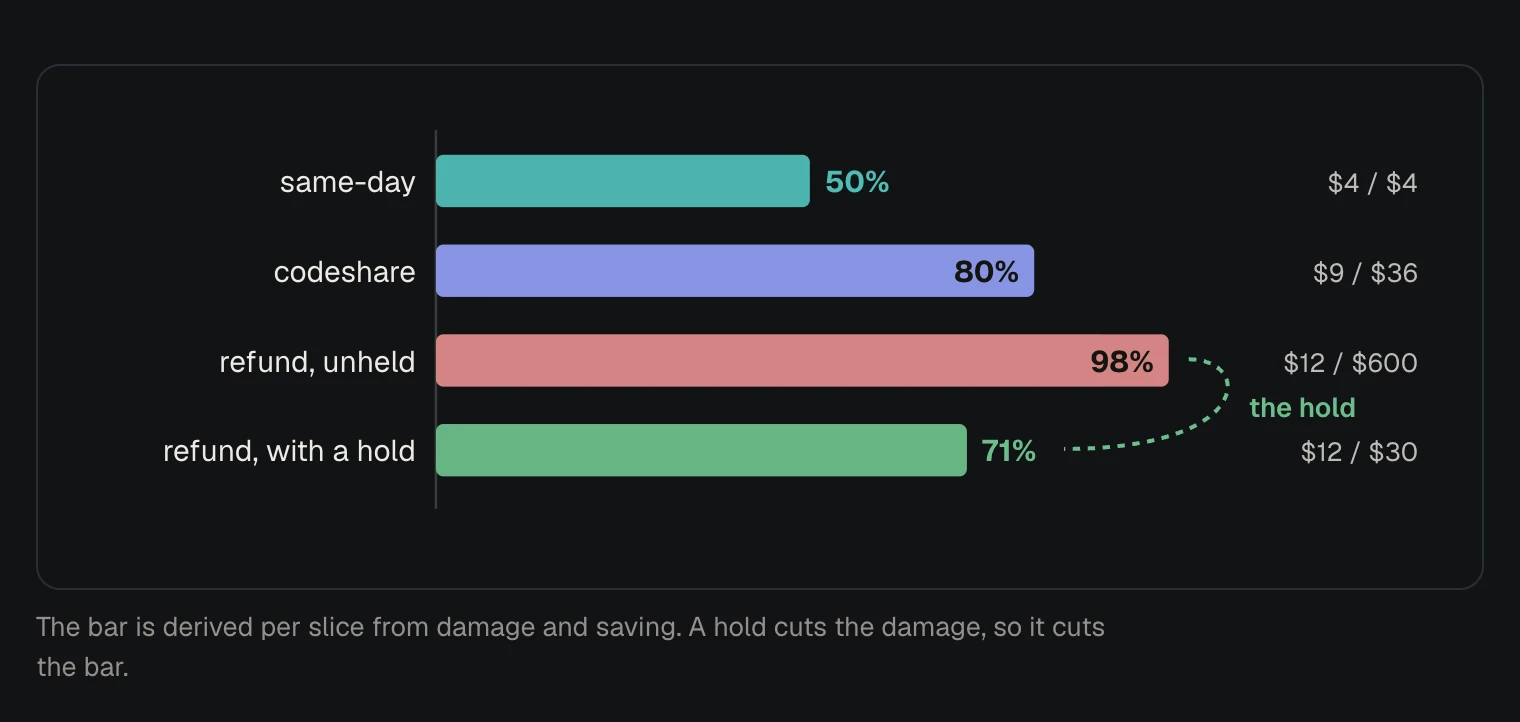
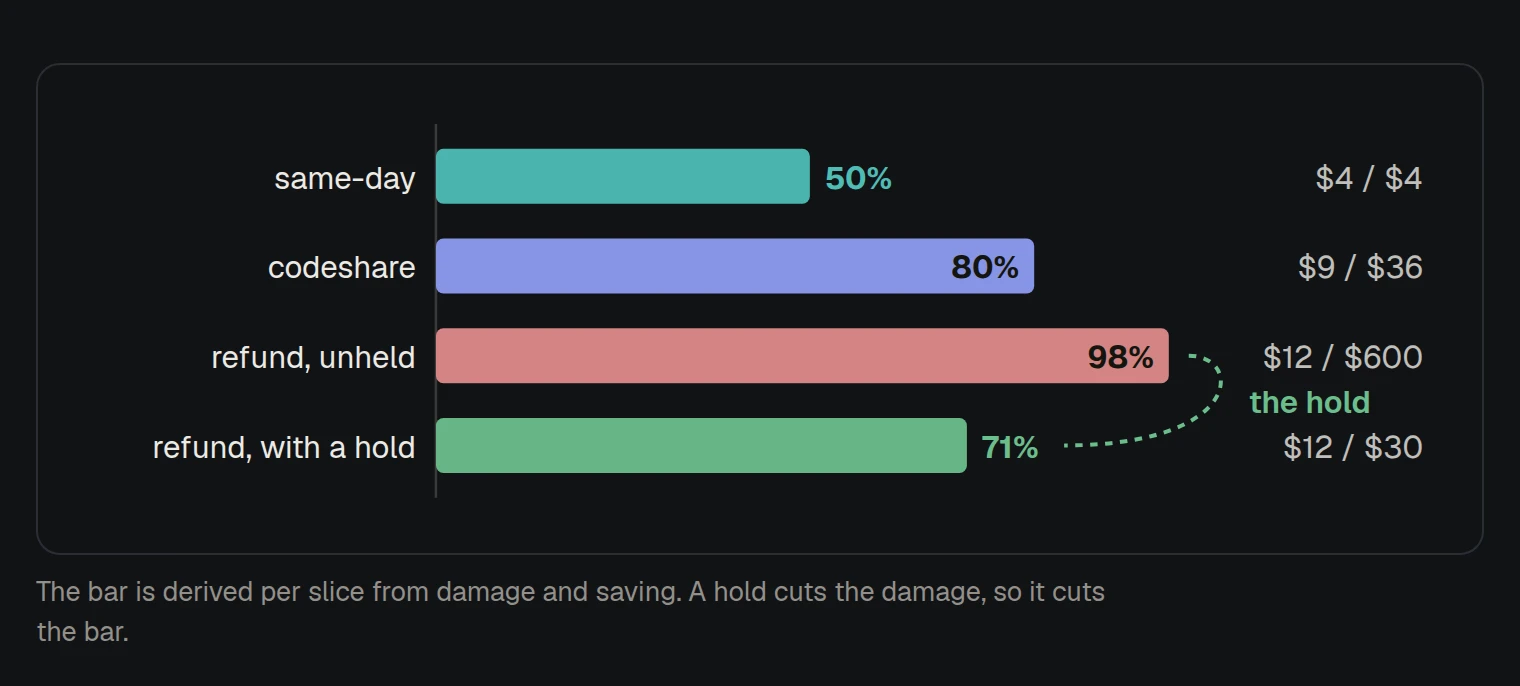
Figure labels in a hue read at 4.5 to 1 in the light theme
Eight pairs of hue-coloured label and tint fell short in the light theme,
between 3.5 and 4.5 to 1: sky, amber and green on their own tints and on
bone, soft on its tint, teal on bone. One token sets how much of its hue a
label keeps, 78% in light and all of it in dark, and the figures mix the
rest from the ink; every pair now reads at 4.9 or more, the dark theme is
unchanged, and the tints did not move. Measured over every label of every
figure and map at two widths in both themes.

Seven figures and the workbench lesson's map, whose title now says the
workbench, are shot again for the wiki in both themes.

Claude-Session: https://claude.ai/code/session_01NALejySY8WrX289xXqTTSm

diff --git a/site/theme/base.css b/site/theme/base.css
@@ -504,12 +504,15 @@ tbody tr:hover{background:color-mix(in oklab,var(--accent) 4%,transparent)}
   --dg-fill:9%;            /* container tint */
   --dg-soft:16%;           /* nested / lane tint */
   --dg-line:38%;           /* hairline of the concept hue */
+  --dg-text:78%;           /* a label drawn in a hue keeps this much of it, the rest is ink: the light
+                              hues read 3.4 to 4.5 to 1 on their own tint, and 4.6 or more at 78% */
 }
 /* The lifted values for the dark page. */
 @media screen{:root:not([data-theme="light"]){
   --dg-slate:#8FA8BE; --dg-indigo:#8E9BF0; --dg-teal:#4FBDB6; --dg-amber:#D9A94A;
   --dg-green:#6BBE8B; --dg-violet:#AE93E0; --dg-rose:#DE8A8A; --dg-sky:#6FB9D9;
   --dg-on:#14140F; --dg-fill:13%; --dg-soft:20%; --dg-line:44%;
+  --dg-text:100%;          /* the lifted hues already read 4.6 or more on their tints */
 }}
 
 /* ---- the board frame ---------------------------------------------------- */

diff --git a/site/pages/figures.py b/site/pages/figures.py
@@ -10,6 +10,10 @@ canvas, re-set upright, for anything narrower. No label is under 12.5 units on t
 the second, so none is under 11px on screen at any width. base.css swaps the two on the figure's own
 width. The sentences that used to be drawn inside the picture are text under it (``notes``): text
 wraps, a drawing cannot.
+
+A label drawn in a hue sits on that hue's own tint, where the light theme's hue alone reads 3.4 to
+4.5 to 1. ``_label`` deepens it toward the ink by ``--dg-text`` (base.css: 78% of the hue in the light
+theme, all of it in the dark), so every label reads 4.5 to 1 or more and the tints stay as they are.
 """
 from __future__ import annotations
 
@@ -34,13 +38,21 @@ def _svg(wide: tuple[int, str], narrow: tuple[int, str], label: str, caption: st
             f"{ns}<figcaption>{E(caption)}</figcaption></figure>")
 
 
+def _label(fill: str) -> str:
+    """The colour a label is drawn in. A hue keeps ``--dg-text`` of itself and takes the rest from the
+    ink; the ink, the ink that sits on a solid hue and a colour already deepened with ink stay as given."""
+    if fill in ("currentColor", "var(--dg-on)") or "var(--ink)" in fill:
+        return fill
+    return f"color-mix(in oklab,{fill} var(--dg-text),var(--ink))"
+
+
 def _t(x: float, y: float, s: str, fs: float = F, *, a: str = "start", w: int = 0, fill: str = "currentColor",
        op: float = 0, mono: bool = False) -> str:
     return (f'<text x="{x:.0f}" y="{y:.0f}" font-size="{fs}"'
             + (f' text-anchor="{a}"' if a != "start" else "")
             + (f' font-weight="{w}"' if w else "")
             + (' font-family="ui-monospace,SFMono-Regular,Menlo,monospace"' if mono else "")
-            + f' fill="{fill}"' + (f' opacity="{op}"' if op else "") + f">{E(s)}</text>")
+            + f' fill="{_label(fill)}"' + (f' opacity="{op}"' if op else "") + f">{E(s)}</text>")
 
 
 def bar_sheet() -> str:
